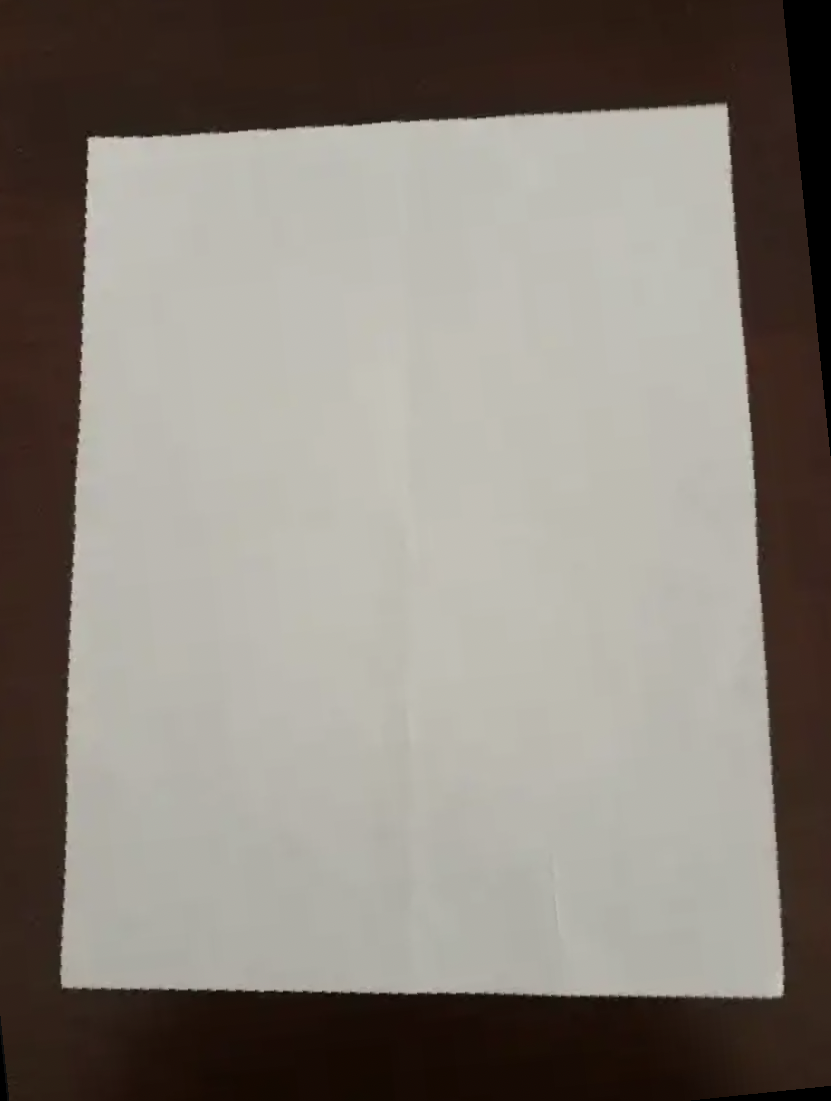
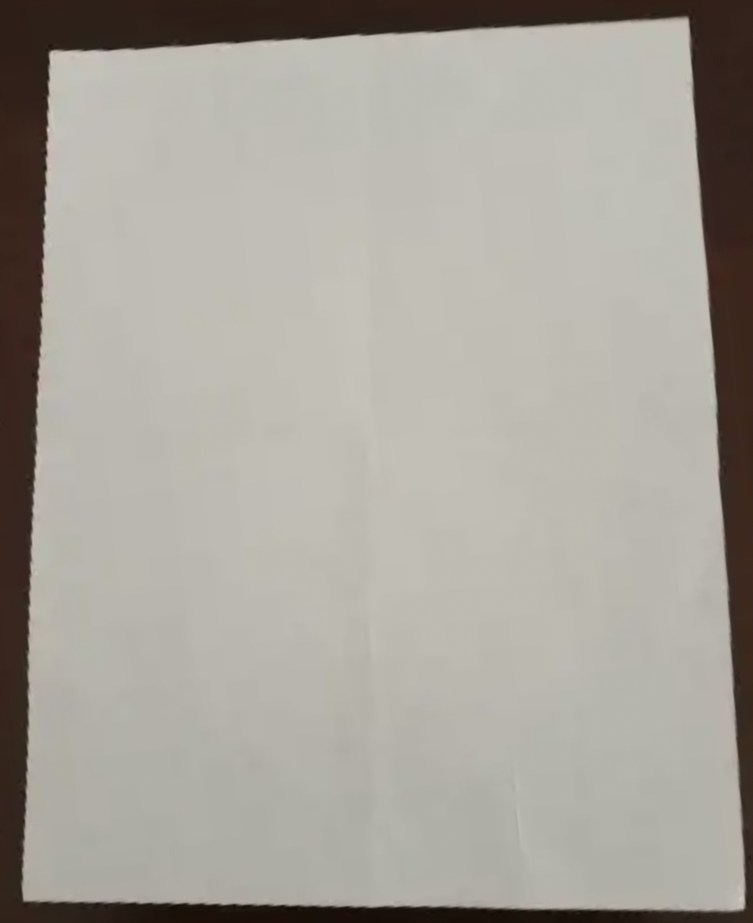
Python Script

Changed region(s): [[0.0, 0.0, 1.0, 1.0]]

diff --git a/Image_Rotating.py b/Image_Rotating.py
@@ -1,0 +1,21 @@
+from skimage import io
+import matplotlib.pyplot as plt
+from skimage import util
+from skimage import transform
+
+start_im = io.imread('rotation.png')
+
+rotated_img = transform.rotate(start_im, 6)
+
+# Determine the shape of the rotated image
+rows, cols = rotated_img.shape[:2]
+
+# Set Crop Area
+start_row = max(0, int(rows * 0.12))
+end_row = min(rows, int(rows * 0.9))
+start_col = max(0, int(cols * 0.1))
+end_col = min(cols, int(cols * 0.95))
+
+imcrp = rotated_img[start_row:end_row, start_col:end_col]
+
+io.imsave('rotated_img.png', imcrp)
